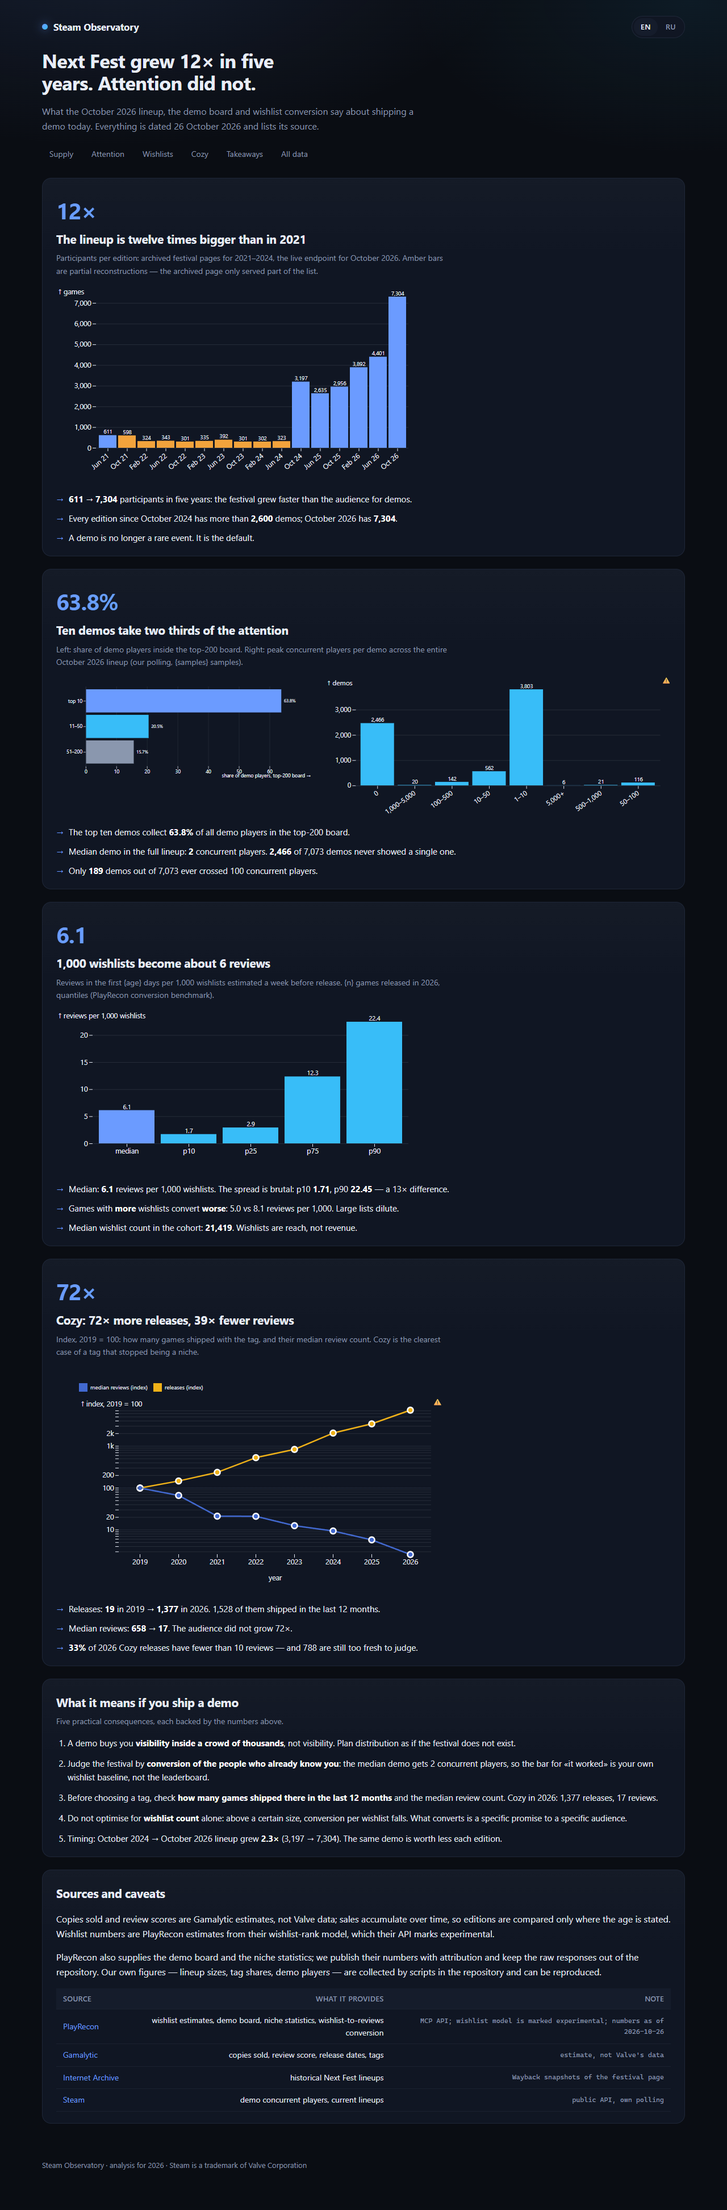
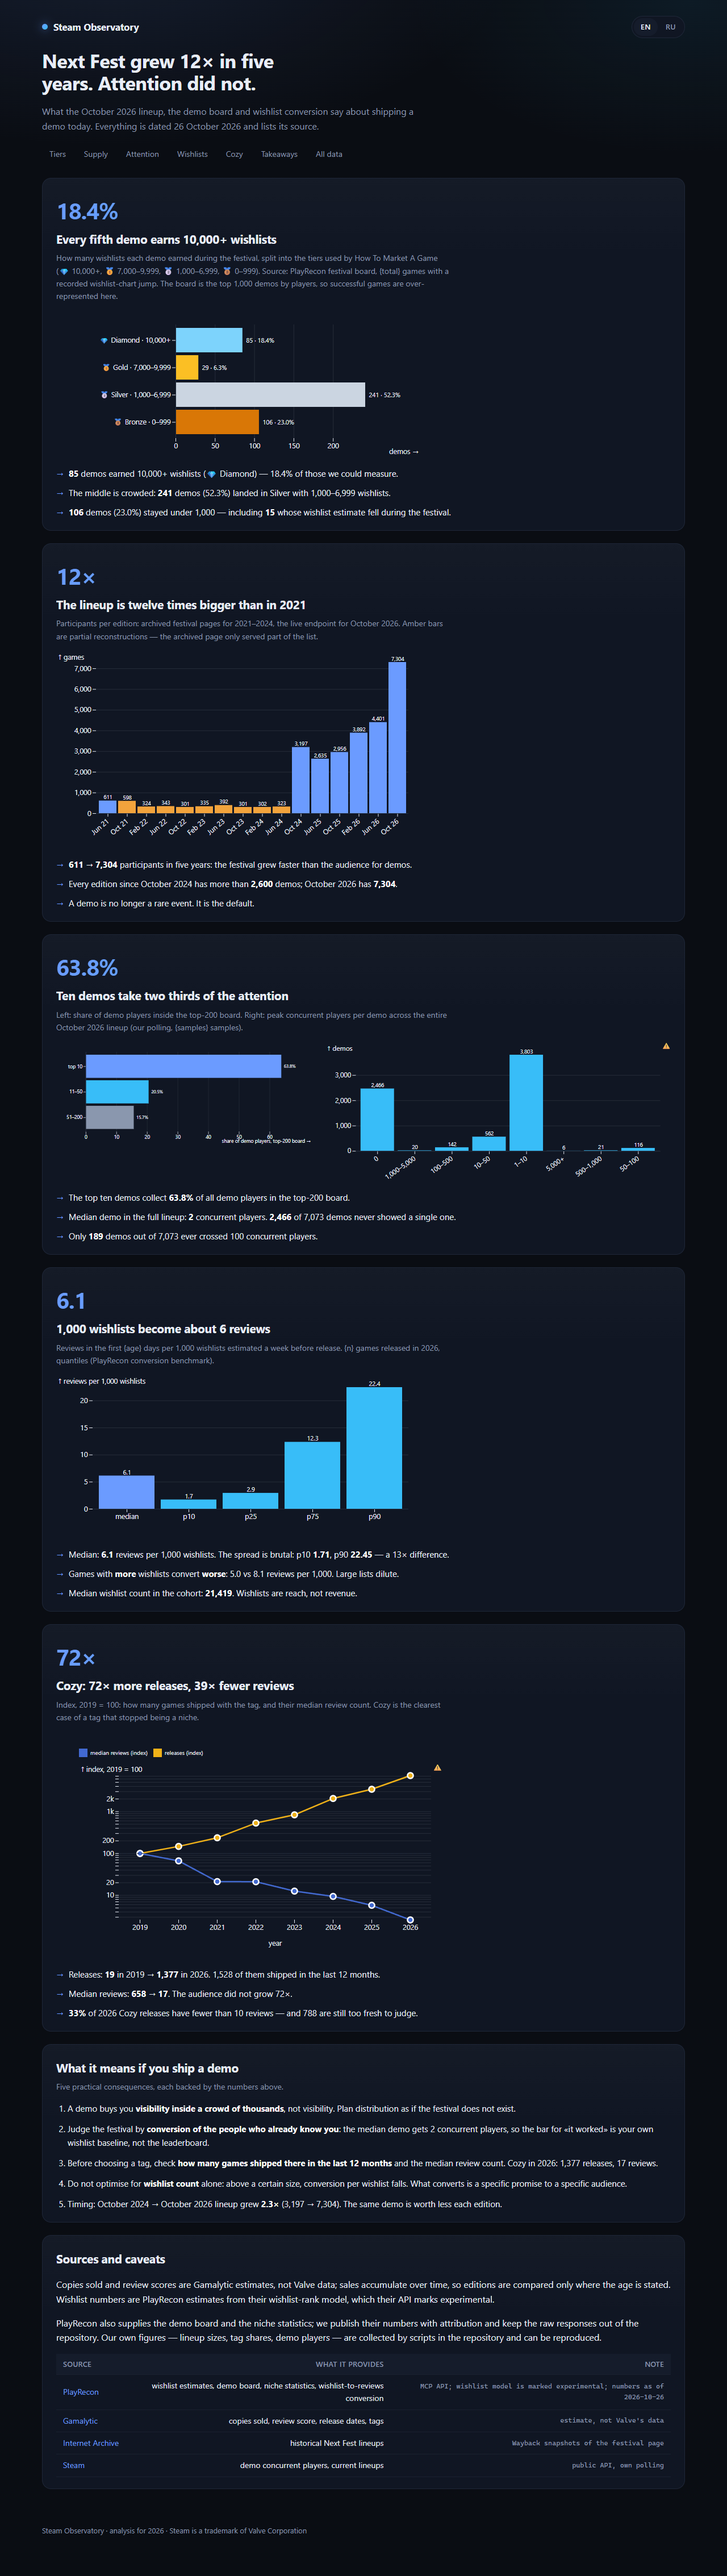
tiers: HTMAG medal tiers in the extension and as the first story block

diff --git a/site/story-i18n.js b/site/story-i18n.js
@@ -4,12 +4,23 @@ export const S = {
     h1: "Next Fest grew 12× in five years. Attention did not.",
     lede:
       "What the October 2026 lineup, the demo board and wishlist conversion say about shipping a demo today. Everything is dated 26 October 2026 and lists its source.",
+    nav_tiers: "Tiers",
     nav_supply: "Supply",
     nav_attention: "Attention",
     nav_wishlists: "Wishlists",
     nav_cozy: "Cozy",
     nav_takeaways: "Takeaways",
     nav_data: "All data",
+
+    tiers_title: "Every fifth demo earns 10,000+ wishlists",
+    tiers_hint:
+      "How many wishlists each demo earned during the festival, split into the tiers used by How To Market A Game (💎 10,000+, 🥇 7,000–9,999, 🥈 1,000–6,999, 🥉 0–999). Source: PlayRecon festival board, {total} games with a recorded wishlist-chart jump. The board is the top 1,000 demos by players, so successful games are over-represented here.",
+    tiers_kicker: "{share}%",
+    tiers_b1: "<b>{diamond}</b> demos earned 10,000+ wishlists (💎 Diamond) — {diamond_share}% of those we could measure.",
+    tiers_b2: "The middle is crowded: <b>{silver}</b> demos ({silver_share}%) landed in Silver with 1,000–6,999 wishlists.",
+    tiers_b3: "<b>{bronze}</b> demos ({bronze_share}%) stayed under 1,000 — including <b>{negatives}</b> whose wishlist estimate fell during the festival.",
+    tiers_axis: "demos",
+    tiers_legend: "wishlists earned during the festival",
 
     supply_title: "The lineup is twelve times bigger than in 2021",
     supply_hint:
@@ -83,12 +94,23 @@ export const S = {
     h1: "Next Fest вырос в 12 раз за пять лет. Внимание — нет.",
     lede:
       "Что состав октября 2026, таблица демо и конверсия вишлистов говорят о выпуске демо сегодня. Все данные на 26 октября 2026, у каждой цифры указан источник.",
+    nav_tiers: "Тиры",
     nav_supply: "Предложение",
     nav_attention: "Внимание",
     nav_wishlists: "Вишлисты",
     nav_cozy: "Cozy",
     nav_takeaways: "Выводы",
     nav_data: "Все данные",
+
+    tiers_title: "Каждое пятое демо набирает 10 000+ вишлистов",
+    tiers_hint:
+      "Сколько вишлистов каждая игра набрала за фестиваль — в тирах How To Market A Game (💎 10 000+, 🥇 7 000–9 999, 🥈 1 000–6 999, 🥉 0–999). Источник: таблица фестиваля PlayRecon, {total} игр с зафиксированным прыжком в топе вишлистов. Это топ-1000 демо по игрокам, поэтому успешные игры здесь представлены с избытком.",
+    tiers_kicker: "{share}%",
+    tiers_b1: "<b>{diamond}</b> демо набрали 10 000+ вишлистов (💎 Diamond) — {diamond_share}% от тех, где получилось измерить.",
+    tiers_b2: "Середина переполнена: <b>{silver}</b> демо ({silver_share}%) попали в Silver — это 1 000–6 999 вишлистов.",
+    tiers_b3: "<b>{bronze}</b> демо ({bronze_share}%) не добрали и 1 000 — включая <b>{negatives}</b>, у которых оценка вишлистов за фестиваль упала.",
+    tiers_axis: "демо",
+    tiers_legend: "вишлистов набрано за фестиваль",
 
     supply_title: "Состав в двенадцать раз больше, чем в 2021-м",
     supply_hint:

diff --git a/extensions/playrecon-wishlist-gain/content.js b/extensions/playrecon-wishlist-gain/content.js
@@ -13,7 +13,17 @@
   const WL_RE =
     /#([\d\s,]+)(?:([\u25b2\u25bc])\s*([\d\s,]+))?\s*\u2248\s*([\d.,]+)\s*([KM]?)/;
   const MULT = { K: 1e3, M: 1e6, "": 1 };
-  const COL = "Δ вишлисты";
+  const COL = "Wishlist change";
+  // тиры по числу вишлистов, набранных за фестиваль (бенчмарк How To Market A Game):
+  // Diamond 10 000+, Gold 7 000–9 999, Silver 1 000–6 999, Bronze 0–999
+  const TIERS = [
+    { key: "diamond", medal: "\u{1F48E}", from: 10_000, to: null },
+    { key: "gold", medal: "\u{1F947}", from: 7_000, to: 9_999 },
+    { key: "silver", medal: "\u{1F948}", from: 1_000, to: 6_999 },
+    { key: "bronze", medal: "\u{1F949}", from: null, to: 999 },
+  ];
+  const tierOf = (gain) =>
+    TIERS.find((t) => gain >= (t.from ?? -Infinity) && gain <= (t.to ?? Infinity)) || TIERS[3];
   // режимы сортировки: 0 — исходный порядок, 1/2 — абсолютный прирост ↓/↑,
   // 3 — рост в разах ↓, 4 — прыжок в топе (▲) ↓
   const MODES = ["", "↓", "↑", "×↓", "▲↓"];
@@ -165,8 +175,9 @@
       const th = document.createElement("th");
       th.dataset.prGain = "1";
       th.title =
-        "Оценка прироста вишлистов за фестиваль. Клик переключает сортировку: " +
-        "по приросту ↓ → ↑ → рост в разах → прыжок в топе → исходный порядок.";
+        "Оценка вишлистов, набранных за фестиваль. Медали — тиры How To Market A Game: " +
+        "💎 10 000+, 🥇 7 000–9 999, 🥈 1 000–6 999, 🥉 0–999. " +
+        "Клик переключает сортировку: по приросту ↓ → ↑ → рост в разах → прыжок в топе → исходный порядок.";
       th.innerHTML = `${COL}<span class="pr-sort"></span>`;
       th.addEventListener("click", () => {
         STATE.mode = (STATE.mode + 1) % MODES.length;
@@ -186,13 +197,18 @@
         td.textContent = "—";
         td.title = row.wl ? "Прыжка в топе нет — считать нечего" : "Нет данных о вишлистах";
       } else {
-        td.textContent = fmtShort(row.gain);
+        const tier = tierOf(row.gain);
+        td.textContent = `${tier.medal} ${fmtShort(row.gain)}`;
         td.classList.add(row.gain >= 0 ? "pr-pos" : "pr-neg");
         td.dataset.gain = String(row.gain);
+        td.dataset.tier = tier.key;
         td.dataset.jump = String(row.wl.jump);
         const ratio = row.estBefore ? row.wl.est / row.estBefore : null;
         if (ratio) td.dataset.ratio = String(ratio);
         td.title =
+          `${tier.medal} ${tier.key} (${tier.from === null ? `0–${tier.to.toLocaleString("ru-RU")}`
+            : tier.to === null ? `${tier.from.toLocaleString("ru-RU")}+`
+            : `${tier.from.toLocaleString("ru-RU")}–${tier.to.toLocaleString("ru-RU")}`} вишлистов за фестиваль)\n` +
           `#${row.wl.rank}▲${row.wl.jump} ≈${fmtFull(row.wl.est)} вишлистов сейчас\n` +
           `было на #${row.rankBefore}: ≈${fmtFull(row.estBefore)}\n` +
           `оценка прироста: ${fmtFull(row.gain)} (±20–30%)` +

diff --git a/site/story.js b/site/story.js
@@ -74,6 +74,68 @@ function renderSources() {
   </table>`;
 }
 
+// --- 0. Тиры вишлистов --------------------------------------------------
+function renderTiers() {
+  const block = story.tiers || {};
+  const tiers = block.tiers || [];
+  if (!tiers.length) return;
+  const total = block.total || tiers.reduce((sum, x) => sum + x.games, 0);
+  const pick = (key) => tiers.find((x) => x.key === key) || { games: 0 };
+  const share = (key) => ((100 * pick(key).games) / total).toFixed(1);
+
+  el("#k-tiers").textContent = t("tiers_kicker", { share: share("diamond") });
+
+  const COLORS = { diamond: "#7dd3fc", gold: "#fbbf24", silver: "#cbd5e1", bronze: "#d97706" };
+  const rangeLabel = (x) =>
+    x.to == null
+      ? `${fmt(x.from)}+`
+      : x.from == null
+        ? `0–${fmt(x.to)}`
+        : `${fmt(x.from)}–${fmt(x.to)}`;
+
+  const rows = tiers.map((x) => ({
+    label: `${x.medal} ${x.key[0].toUpperCase()}${x.key.slice(1)} · ${rangeLabel(x)}`,
+    games: x.games,
+    share: (100 * x.games) / total,
+    color: COLORS[x.key] || T.accent,
+  }));
+
+  el("#chart-tiers").replaceChildren(
+    plot({
+      height: 250,
+      marginLeft: 210,
+      marginRight: 96,
+      x: { grid: true, label: t("tiers_axis") },
+      y: { label: null, domain: rows.map((r) => r.label) },
+      marks: [
+        Plot.barX(rows, { x: "games", y: "label", fill: "color", tip: true }),
+        Plot.text(rows, {
+          x: "games",
+          y: "label",
+          text: (d) => `${fmt(d.games)} · ${d.share.toFixed(1)}%`,
+          dx: 6,
+          textAnchor: "start",
+          fill: T.muted,
+          fontSize: 11,
+        }),
+        Plot.ruleX([0], { stroke: T.grid }),
+      ],
+    })
+  );
+
+  el("#take-tiers").innerHTML = [
+    t("tiers_b1", { diamond: fmt(pick("diamond").games), diamond_share: share("diamond") }),
+    t("tiers_b2", { silver: fmt(pick("silver").games), silver_share: share("silver") }),
+    t("tiers_b3", {
+      bronze: fmt(pick("bronze").games),
+      bronze_share: share("bronze"),
+      negatives: fmt(block.negatives),
+    }),
+  ]
+    .map((x) => `<li>${x}</li>`)
+    .join("");
+}
+
 // --- 1. Предложение -----------------------------------------------------
 function renderSupply() {
   const rows = (story.supply || []).map((s) => {
@@ -308,6 +370,7 @@ function renderTakeaways() {
 
 function renderAll() {
   applyStatic();
+  renderTiers();
   renderSupply();
   renderAttention();
   renderWishlists();

diff --git a/site/story.html b/site/story.html
@@ -20,6 +20,7 @@
   <h1 data-i18n="h1"></h1>
   <p class="lede" data-i18n="lede"></p>
   <nav class="tabs">
+    <a href="#tiers" data-i18n="nav_tiers"></a>
     <a href="#supply" data-i18n="nav_supply"></a>
     <a href="#attention" data-i18n="nav_attention"></a>
     <a href="#wishlists" data-i18n="nav_wishlists"></a>
@@ -30,6 +31,13 @@
 </header>
 
 <main>
+  <section id="tiers">
+    <p class="kicker" id="k-tiers"></p>
+    <h2 data-i18n="tiers_title"></h2>
+    <p class="hint" data-i18n="tiers_hint"></p>
+    <div id="chart-tiers" class="chart"><div class="skel skel-chart-sm"></div></div>
+    <ul class="takeaways" id="take-tiers"></ul>
+  </section>
   <section id="supply">
     <p class="kicker" id="k-supply"></p>
     <h2 data-i18n="supply_title"></h2>

diff --git a/scripts/playrecon_wishlist_gain.py b/scripts/playrecon_wishlist_gain.py
@@ -136,6 +136,32 @@ def main() -> int:
     values = [g["gain"] for g in gains if g["gain"] > 0]
     total = sum(values)
 
+    # тиры из бенчмарка How To Market A Game: сколько вишлистов игра набирает за фестиваль
+    TIERS = [
+        ("diamond", "\U0001f48e", 10_000, None),
+        ("gold", "\U0001f947", 7_000, 9_999),
+        ("silver", "\U0001f948", 1_000, 6_999),
+        ("bronze", "\U0001f949", None, 999),
+    ]
+
+    def tier_of(value: int) -> str:
+        if value >= 10_000:
+            return "diamond"
+        if value >= 7_000:
+            return "gold"
+        if value >= 1_000:
+            return "silver"
+        return "bronze"
+
+    tier_counts = {name: 0 for name, _e, _lo, _hi in TIERS}
+    for g in gains:
+        tier_counts[tier_of(g["gain"])] += 1
+    tiers = [
+        {"key": key, "medal": medal, "from": lo, "to": hi, "games": tier_counts[key]}
+        for key, medal, lo, hi in TIERS
+    ]
+    negatives = sum(1 for g in gains if g["gain"] < 0)
+
     # связан ли прирост вишлистов с игроками в демо
     pairs = [(g["gain"], g["peak"]) for g in gains if g["gain"] > 0 and g["peak"]]
     corr = None
@@ -161,6 +187,8 @@ def main() -> int:
         "top25_quiet": len(quiet),
         "over_10k": sum(1 for v in values if v >= 10_000),
         "over_50k": sum(1 for v in values if v >= 50_000),
+        "tiers": tiers,
+        "tier_negatives": negatives,
         "top": gains[:25],
         "notes": [
             "прирост = текущая оценка минус оценка на месте до фестиваля (по кривой из этой же таблицы)",
@@ -178,6 +206,20 @@ def main() -> int:
                   f"суммарно по таблице ≈ **{total:,}**".replace(",", " "))
     md.append("")
     md.append(f"Прирост ≥10 000 вишлистов: {report['over_10k']} игр; ≥50 000: {report['over_50k']} игр.")
+    total_games = len(gains)
+    md.append("")
+    md.append("## Тиры (бенчмарк How To Market A Game)")
+    md.append("")
+    md.append("| Тир | Вишлистов за фестиваль | Игр | Доля |")
+    md.append("|---|---|---|---|")
+    for row in tiers:
+        rng = (f"{row['from']:,}+" if row["to"] is None else
+               f"{row['from']:,}–{row['to']:,}" if row["from"] else f"0–{row['to']:,}")
+        md.append(f"| {row['medal']} {row['key'].title()} | {rng.replace(',', ' ')} | {row['games']} | "
+                  f"{100 * row['games'] / total_games:.1f}% |")
+    md.append("")
+    md.append(f"Всего игр с данными о прыжке: {total_games}; "
+              f"из них с отрицательной оценкой прироста: {negatives} (отнесены к Bronze).")
     md.append(f"Корреляция «прирост вишлистов ↔ пик игроков в демо»: **{corr}** "
               f"(n={len(pairs)}). Из 25 крупнейших приростов у {len(quiet)} игр пик демо ниже 1 000 игроков.")
     md.append("")

diff --git a/scripts/test_extension.py b/scripts/test_extension.py
@@ -78,7 +78,30 @@ try:
         check("ячейки добавлены в строки", cells > 500, f"ячеек={cells}")
 
         first = page.eval_on_selector("td.pr-gain", "e => e.textContent.trim()")
-        check("первая строка посчитана", first.startswith("+"), f"значение={first}")
+        check("первая строка посчитана", first.startswith("\U0001f48e"), f"значение={first}")
+
+        header_text = page.eval_on_selector("th[data-pr-gain]", "e => e.textContent.trim()")
+        check("колонка называется Wishlist change", header_text.startswith("Wishlist change"),
+              header_text)
+
+        tier_first = page.eval_on_selector("td.pr-gain", "e => e.dataset.tier")
+        check("медалька соответствует тиру", tier_first == "diamond", f"тир={tier_first}")
+
+        bronze = page.evaluate(
+            """() => {
+                const cell = Array.from(document.querySelectorAll('td.pr-gain'))
+                    .find(c => c.dataset.tier === 'bronze');
+                return cell ? { text: cell.textContent.trim(), tier: cell.dataset.tier } : null;
+            }"""
+        )
+        check("у бронзового тира медалька 🥉",
+              bool(bronze) and bronze["text"].startswith("\U0001f949"), str(bronze))
+
+        tiers_seen = page.evaluate(
+            """() => Array.from(new Set(Array.from(document.querySelectorAll('td.pr-gain'))
+                .map(c => c.dataset.tier).filter(Boolean))).sort()"""
+        )
+        check("в таблице есть все четыре тира", len(tiers_seen) == 4, str(tiers_seen))
 
         title = page.eval_on_selector("td.pr-gain", "e => e.title")
         check("в подсказке есть оговорка о погрешности", "±20–30%" in title,

diff --git a/scripts/validate_story.py b/scripts/validate_story.py
@@ -63,13 +63,21 @@ with sync_playwright() as pw:
     page.wait_for_timeout(1200)
 
     svg = page.eval_on_selector_all(".chart svg", "els => els.length")
-    check("графики нарисованы", svg >= 5, f"svg={svg}")
+    check("графики нарисованы", svg >= 6, f"svg={svg}")
 
     kickers = page.eval_on_selector_all(".kicker", "els => els.map(e => e.textContent.trim())")
     check("крупные числа заполнены", all(k and k not in ("—",) for k in kickers), str(kickers))
+    check("первый блок — тиры вишлистов", kickers and kickers[0].endswith("%"), f"первое={kickers[:1]}")
+
+    tier_bars = page.eval_on_selector_all("#chart-tiers svg rect", "els => els.length")
+    check("в графике тиров четыре полосы", tier_bars >= 4, f"полос={tier_bars}")
+
+    tiers_text = page.text_content("#take-tiers") or ""
+    check("тиры описаны в выводах", "Diamond" in tiers_text and "Silver" in tiers_text,
+          tiers_text[:70])
 
     takes = page.eval_on_selector_all(".takeaways li", "els => els.length")
-    check("выводы под блоками есть", takes >= 9, f"пунктов={takes}")
+    check("выводы под блоками есть", takes >= 12, f"пунктов={takes}")
 
     items = page.eval_on_selector_all("#checklist li", "els => els.length")
     check("список «что делать» из 5 пунктов", items == 5, f"пунктов={items}")

diff --git a/scripts/build_story_data.py b/scripts/build_story_data.py
@@ -124,8 +124,25 @@ board = story.get("blocks", {}).get("board", {})
 our_ccu = story.get("blocks", {}).get("our_ccu", {})
 board_peaks = sorted([(r.get("peak") or 0) for r in board.get("games") or []], reverse=True)
 
+# тиры How To Market A Game по вишлистам, набранным за фестиваль
+gains_file = CACHE / "wishlist_gains.json"
+tiers_block = None
+if gains_file.exists():
+    gains_data = json.loads(gains_file.read_text(encoding="utf-8"))
+    tiers_block = {
+        "tiers": gains_data.get("tiers"),
+        "negatives": gains_data.get("tier_negatives"),
+        "total": gains_data.get("rows_with_jump"),
+        "median_gain": gains_data.get("median_gain"),
+        "total_gain": gains_data.get("total_gain_top1000"),
+        "corr_players": gains_data.get("corr_gain_vs_players"),
+        "quiet_top25": gains_data.get("top25_quiet"),
+        "source": "PlayRecon fest board; tier thresholds from How To Market A Game",
+    }
+
 publish = {
     "as_of": "2026-10-26",
+    "tiers": tiers_block,
     "supply": [
         {"slug": slug, "games": (outcomes["editions"].get(slug) or {}).get("n")}
         for slug in outcomes.get("editions", {})

diff --git a/extensions/playrecon-wishlist-gain/README.md b/extensions/playrecon-wishlist-gain/README.md
@@ -1,9 +1,22 @@
-# PlayRecon wishlist gain — расширение для браузера
+# PlayRecon wishlist change — расширение для браузера
 
-Добавляет в таблицу фестиваля PlayRecon колонку **«Δ вишлисты»** — оценку того,
-сколько вишлистов игра набрала за фестиваль, — и сортировку по этой колонке.
+Добавляет в таблицу фестиваля PlayRecon колонку **«Wishlist change»** — оценку того,
+сколько вишлистов игра набрала за фестиваль, с медалькой-тиром, — и сортировку по ней.
 
 Работает в Vivaldi, Chrome, Edge и любом Chromium-браузере (Manifest V3).
+
+## Тиры (бенчмарк How To Market A Game)
+
+| Тир | Вишлистов набрано за фестиваль |
+|---|---|
+| 💎 Diamond | 10 000+ |
+| 🥇 Gold | 7 000–9 999 |
+| 🥈 Silver | 1 000–6 999 |
+| 🥉 Bronze | 0–999 |
+
+Порог Gold/Silver в 7 000 взят не случайно: это примерно столько вишлистов нужно,
+чтобы попасть в Popular Upcoming к запуску. Тиры считаются от вишлистов,
+**набранных за фестиваль**, а не от общего числа до него.
 
 ## Установка в Vivaldi
 
